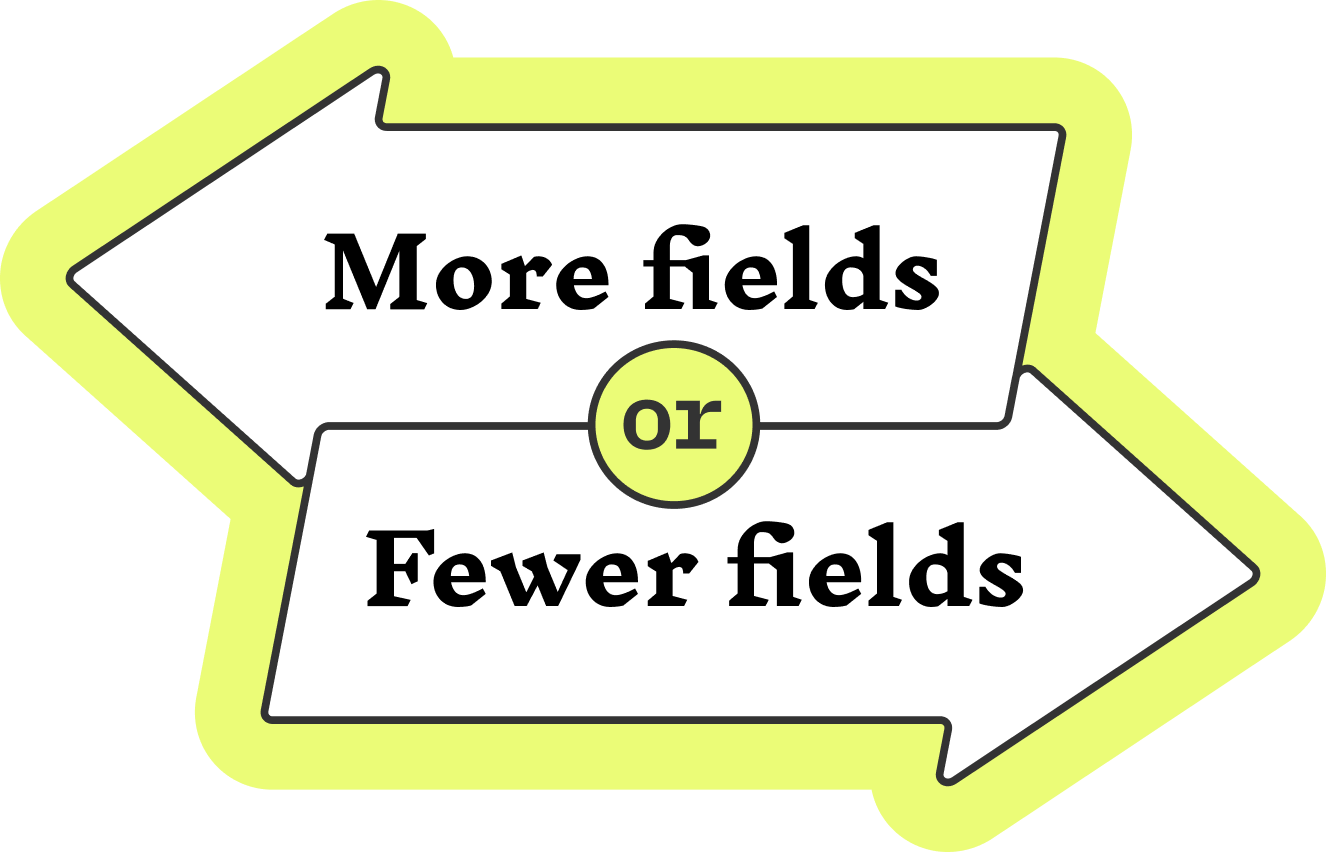
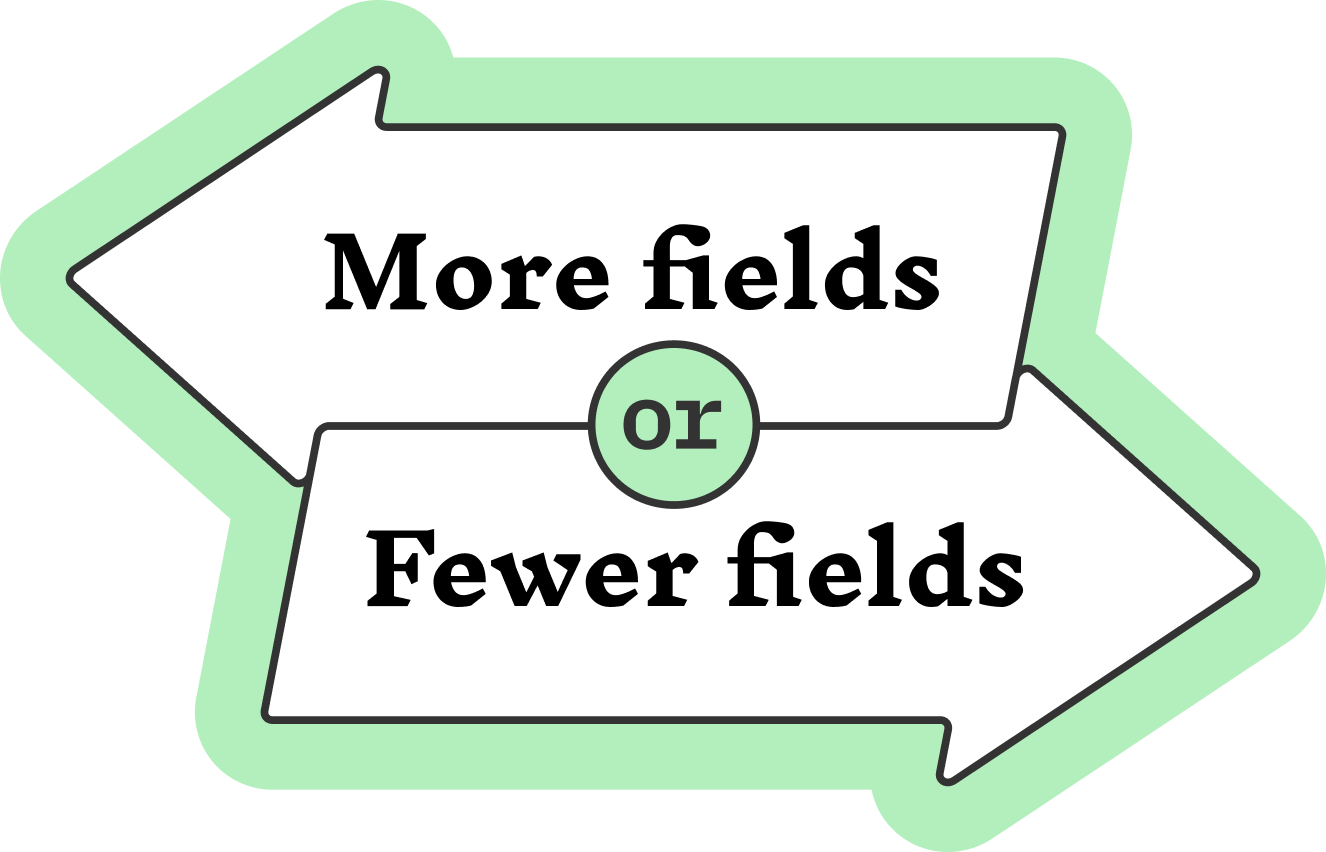
mudei o tom de verde

Changed region(s): [[0.0, 0.0, 1.0, 1.0], [0.4329, 0.3967, 0.5875, 0.6103]]

diff --git a/case-better-forms-better-leads.html b/case-better-forms-better-leads.html
@@ -51,7 +51,7 @@ nav.scrolled{border-color:rgba(0,0,0,.08);box-shadow:0 1px 0 rgba(0,0,0,.06);}
 .d1{transition-delay:.07s}.d2{transition-delay:.14s}.d3{transition-delay:.21s}.d4{transition-delay:.28s}.d5{transition-delay:.35s}
 
 /* ── HERO ── */
-.cs-hero{background:#EBFC77;padding:96px 1.5rem 64px;position:relative;overflow:hidden;}
+.cs-hero{background:#B3EFBD;padding:96px 1.5rem 64px;position:relative;overflow:hidden;}
 .cs-hero::before{content:'';position:absolute;top:-120px;right:-120px;width:480px;height:480px;border-radius:50%;display:none;}
 .cs-hero-inner{max-width:960px;margin:0 auto;}
 .cs-tag{display:inline-flex;align-items:center;gap:.4rem;background:rgba(0,0,0,.08);border-radius:100px;padding:.28rem .9rem;font-size:.7rem;font-weight:700;letter-spacing:.1em;text-transform:uppercase;color:rgba(0,0,0,.7);margin-bottom:1.25rem;}
@@ -75,10 +75,10 @@ nav.scrolled{border-color:rgba(0,0,0,.08);box-shadow:0 1px 0 rgba(0,0,0,.06);}
 .img-ph p{font-size:.72rem;}
 
 /* ── OVERVIEW STRIP ── */
-.overview-strip{background:#EBFC77;padding:24px 0;border-top:1px solid rgba(0,0,0,.1);}
+.overview-strip{background:#B3EFBD;padding:24px 0;border-top:1px solid rgba(0,0,0,.1);}
 .ov-grid{display:grid;grid-template-columns:repeat(2,1fr);gap:1px;background:rgba(0,0,0,.1);}
 @media(min-width:640px){.ov-grid{grid-template-columns:repeat(4,1fr);}}
-.ov-cell{background:#EBFC77;padding:.85rem;text-align:center;}
+.ov-cell{background:#B3EFBD;padding:.85rem;text-align:center;}
 .ov-val{font-weight:900;font-size:1.8rem;color:var(--black);letter-spacing:-.04em;line-height:1;}
 .ov-lbl{font-size:.68rem;color:rgba(0,0,0,.55);margin-top:.35rem;font-weight:600;letter-spacing:.04em;}
 
@@ -86,7 +86,7 @@ nav.scrolled{border-color:rgba(0,0,0,.08);box-shadow:0 1px 0 rgba(0,0,0,.06);}
 .sec-white{padding:80px 0;background:var(--white);}
 .sec-gray{padding:80px 0;background:#fafafa;}
 .sec-black{padding:80px 0;background:var(--black);}
-.sec-purple{padding:80px 0;background:#EBFC77;}
+.sec-purple{padding:80px 0;background:#B3EFBD;}
 
 .sec-h{font-weight:900;font-size:clamp(1.8rem,4.5vw,2.8rem);line-height:1.05;letter-spacing:-.03em;color:var(--ink);margin-bottom:.75rem;}
 .sec-h em{font-style:normal;color:var(--ink);}
@@ -156,7 +156,7 @@ nav.scrolled{border-color:rgba(0,0,0,.08);box-shadow:0 1px 0 rgba(0,0,0,.06);}
 .step{display:grid;grid-template-columns:40px 1fr;gap:1rem;padding-bottom:1.75rem;position:relative;}
 .step::before{content:'';position:absolute;left:19px;top:40px;bottom:0;width:1px;background:rgba(255,255,255,.1);}
 .step:last-child::before{display:none;}
-.step-num{width:40px;height:40px;border-radius:50%;background:#EBFC77;display:flex;align-items:center;justify-content:center;font-weight:800;font-size:.72rem;color:var(--black);flex-shrink:0;position:relative;z-index:1;}
+.step-num{width:40px;height:40px;border-radius:50%;background:#B3EFBD;display:flex;align-items:center;justify-content:center;font-weight:800;font-size:.72rem;color:var(--black);flex-shrink:0;position:relative;z-index:1;}
 .step-body{}
 .step-title{font-weight:700;font-size:.93rem;color:var(--ink);margin-bottom:.3rem;}
 .step-desc{font-size:.85rem;color:var(--ink-light);line-height:1.75;}
@@ -199,7 +199,7 @@ footer{background:var(--purple);padding:2rem 1.5rem;}
 /* ── NOTE BAR ── */
 .note-bar{background:#fefce8;border-radius:.75rem;padding:.75rem 1rem;font-size:.78rem;color:#78350f;margin-top:2rem;line-height:1.65;}
 .note-bar strong{color:#92400e;}
-.hl{display:inline;background:linear-gradient(rgba(235,252,119,0) 55%,#EBFC77 55%);white-space:normal;}.hl-strong{display:inline;background:linear-gradient(rgba(220,245,60,0) 55%,#DCF53C 55%);white-space:normal;}.hl-dark{display:inline;background:linear-gradient(rgba(200,230,30,0) 55%,#C8E61E 55%);white-space:normal;}</style>
+.hl{display:inline;background:linear-gradient(rgba(179,239,189,0) 55%,#B3EFBD 55%);white-space:normal;}.hl-strong{display:inline;background:linear-gradient(rgba(220,245,60,0) 55%,#DCF53C 55%);white-space:normal;}.hl-dark{display:inline;background:linear-gradient(rgba(200,230,30,0) 55%,#C8E61E 55%);white-space:normal;}</style>
 </head>
 <body>
 
